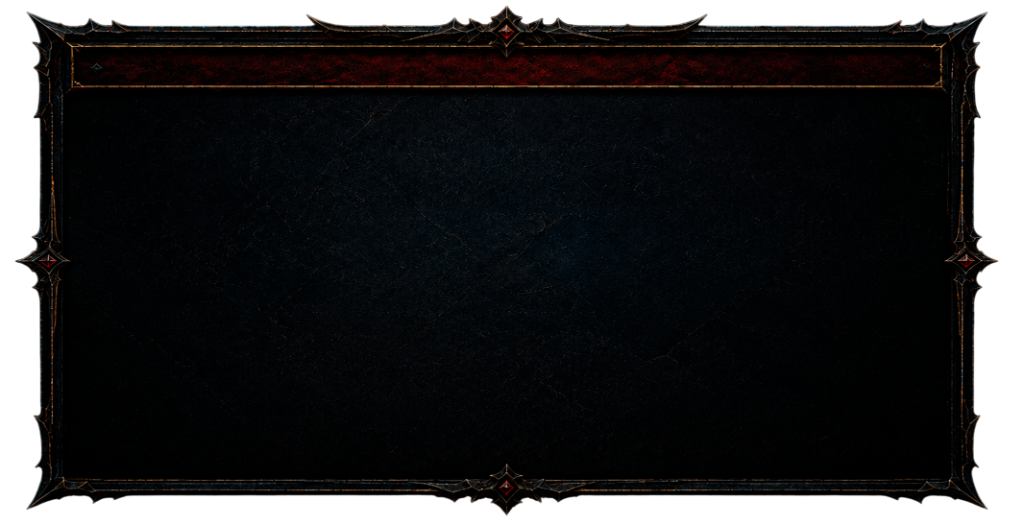
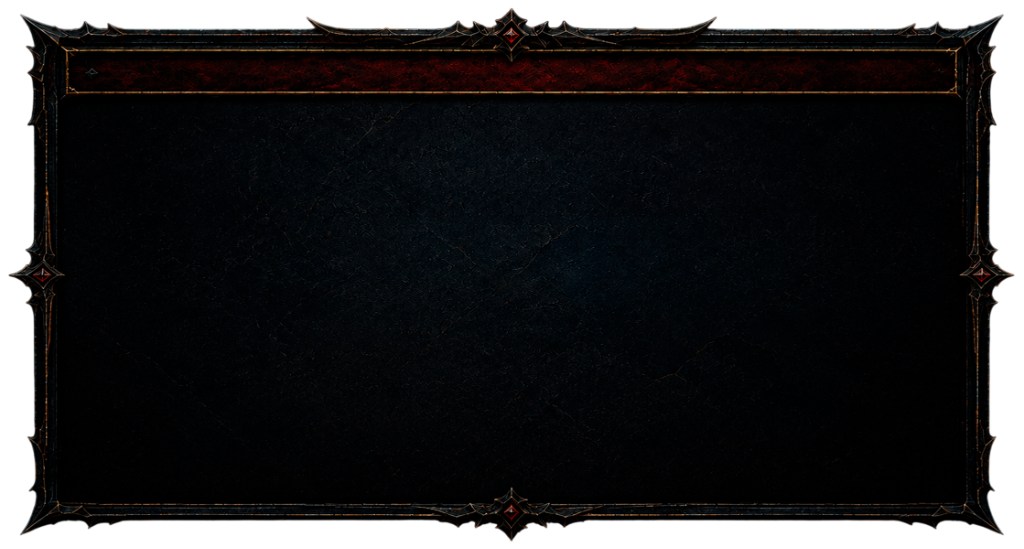
feat(ui): update character selection box frame, add custom enter game button graphic, crisp white text, and auto-play background audio

Changed region(s): [[0.0, 0.0, 1.0, 0.9884]]

diff --git a/apps/web/components/auth/TibiaAuthCharacterModal.tsx b/apps/web/components/auth/TibiaAuthCharacterModal.tsx
@@ -62,15 +62,39 @@ export function TibiaAuthCharacterModal({ onSelectCharacter }: TibiaAuthCharacte
   const [isMuted, setIsMuted] = useState(false);
 
   useEffect(() => {
-    if (audioRef.current) {
-      audioRef.current.volume = 0.45;
-      const playPromise = audioRef.current.play();
-      if (playPromise !== undefined) {
-        playPromise.catch(() => {
-          // Autoplay blocked until first click
+    const playAudio = () => {
+      if (audioRef.current) {
+        audioRef.current.volume = 0.45;
+        audioRef.current.muted = false;
+        audioRef.current.play().then(() => {
+          setIsMuted(false);
+        }).catch(() => {
+          // Autoplay blocked until first click/keypress
         });
       }
-    }
+    };
+
+    playAudio();
+
+    const handleFirstUserInteraction = () => {
+      if (audioRef.current) {
+        audioRef.current.volume = 0.45;
+        audioRef.current.muted = false;
+        audioRef.current.play().then(() => {
+          setIsMuted(false);
+        }).catch(() => {});
+      }
+    };
+
+    window.addEventListener('click', handleFirstUserInteraction, { once: true });
+    window.addEventListener('keydown', handleFirstUserInteraction, { once: true });
+    window.addEventListener('pointerdown', handleFirstUserInteraction, { once: true });
+
+    return () => {
+      window.removeEventListener('click', handleFirstUserInteraction);
+      window.removeEventListener('keydown', handleFirstUserInteraction);
+      window.removeEventListener('pointerdown', handleFirstUserInteraction);
+    };
   }, []);
 
   const toggleMute = () => {
@@ -697,18 +721,18 @@ export function TibiaAuthCharacterModal({ onSelectCharacter }: TibiaAuthCharacte
                           display: 'flex',
                           alignItems: 'center',
                           justifyContent: 'space-between',
-                          padding: '12px 16px',
-                          backgroundColor: '#11161d',
-                          border: '1px solid #2b3442',
-                          borderRadius: '4px',
+                          padding: '10px 12px',
+                          backgroundColor: 'transparent',
+                          borderBottom: '1px solid rgba(212, 168, 67, 0.15)',
+                          borderRadius: '0px',
                           cursor: 'pointer',
                           pointerEvents: 'auto',
                           userSelect: 'none',
                         }}
                       >
                         <div>
-                          <div style={{ fontWeight: 'bold', color: '#fff', fontSize: '14px' }}>{char.name}</div>
-                          <div style={{ fontSize: '11px', color: '#a09886', marginTop: '2px' }}>
+                          <div style={{ fontWeight: 'bold', color: '#ffffff', fontSize: '15px', textShadow: '1px 1px 2px #000' }}>{char.name}</div>
+                          <div style={{ fontSize: '11px', color: '#ffffff', marginTop: '3px', textShadow: '1px 1px 2px #000', opacity: 0.95 }}>
                             Level {char.level} | {VOCATION_NAMES[char.vocationId] || 'No Vocation'} | Spawn: Thais Temple
                           </div>
                         </div>
@@ -716,15 +740,24 @@ export function TibiaAuthCharacterModal({ onSelectCharacter }: TibiaAuthCharacte
                           type="button"
                           onClick={handleSelectThisChar}
                           style={{
-                            padding: '8px 16px',
-                            background: 'linear-gradient(180deg, #ba8e54 0%, #7d5c2e 100%)',
-                            border: '1px solid #d4a843',
-                            color: '#fff',
+                            width: '170px',
+                            height: '38px',
+                            backgroundImage: "url('/enter-game-btn.png')",
+                            backgroundSize: '100% 100%',
+                            backgroundRepeat: 'no-repeat',
+                            backgroundPosition: 'center',
+                            backgroundColor: 'transparent',
+                            border: 'none',
+                            color: '#ffffff',
                             fontWeight: 'bold',
                             fontSize: '12px',
-                            borderRadius: '4px',
                             cursor: 'pointer',
                             pointerEvents: 'auto',
+                            display: 'flex',
+                            alignItems: 'center',
+                            justifyContent: 'center',
+                            textShadow: '1px 1px 3px #000',
+                            filter: 'drop-shadow(0 2px 5px rgba(0,0,0,0.6))',
                           }}
                         >
                           ENTRAR NO JOGO ⚔

diff --git a/FIX.md b/FIX.md
@@ -1,11 +1,9 @@
 # Correções Concluídas
 
-Salve o jogo de 20 em 20 segundos para que não se perca a evolução dos personagens
+Troque novamente o fundo da seleção de personagem por esse fundo que mandei
 
-Quando você clica com o botão direito em outro player, tem a opção "Trade" que é um sistema de trocas que você pode colocar itens e o outro também coloca, depois vocês dois confirmam e os itens são trocados
+Troque o botão "Entrar no jogo" por esse que enviei
 
-Ao apertar com o botão direito em outro personagem, você pode chamar ele para a Party, mandar uma private message e adicionar como amigo
+Retire esse fundo que está atrás do nome do personagem e deixe o  level vocação e spawn aparecendo em branco
 
-O loot em party funciona assim cada personagem tem uma porcentagem de chance de pegar o loot, de acordo com raridade, esse funcionamento do loot deve ser assim quando se joga sem party também, veja os arquivos do jogo para saber a raridade e chance de cada item
-
-Criar um botão de amigos no menu la em cima, esse sistema é simples você tem uma barra de buscar, quando você coloca o nome e aperta pesquisar ele acha, tem a opção de adicionar ele, quando adicionado ele fica na sua barra de amigos, da pra mandar mensagem privada para ele e também convidar para a party
+Eu tive que apertar no botão de som para ouvir a musica, assim que entrar nessa janela ja precisa começar a musica
